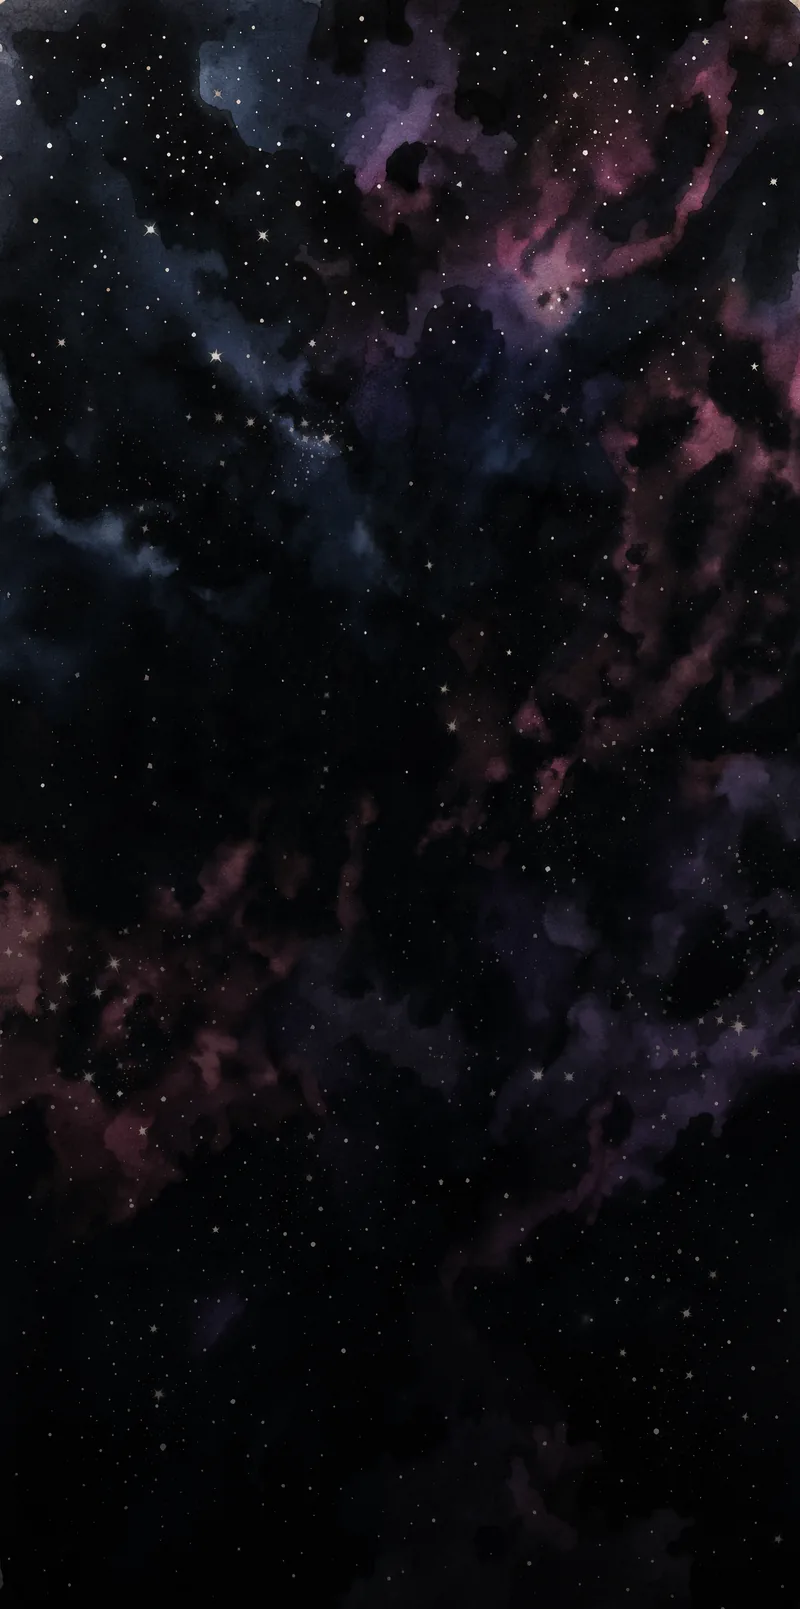
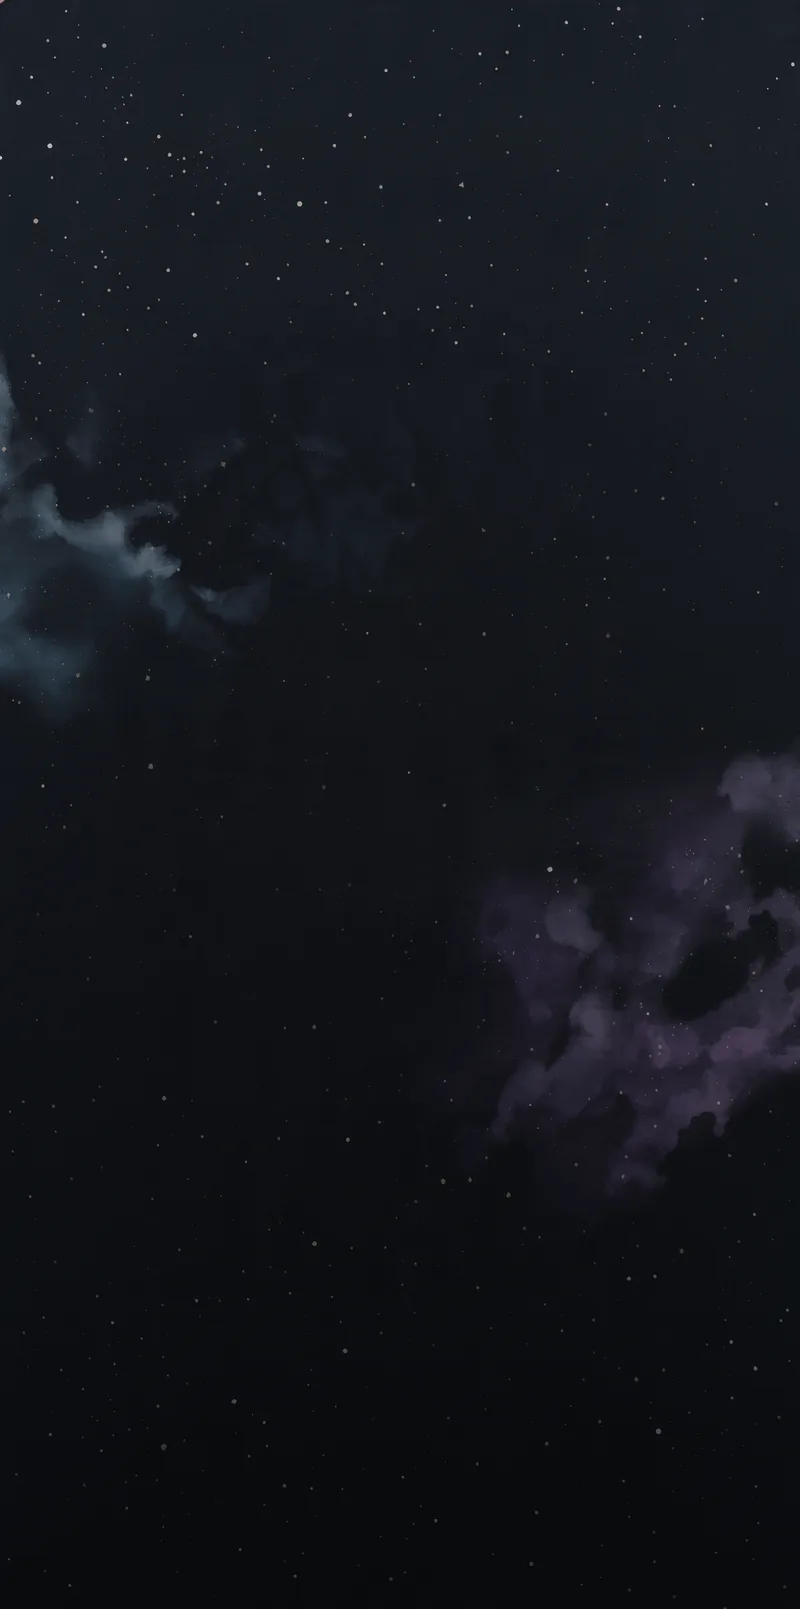
Background: simpler, calmer dark sky (sparse tiny stars, two faint nebula wisps), fading toward the bottom

diff --git a/app/src/components/space-backdrop.tsx b/app/src/components/space-backdrop.tsx
@@ -1,7 +1,7 @@
 import { Galaxy } from './galaxy'
 
 /**
- * The space behind the whole page: one tall dark watercolor-galaxy painting (generated with
+ * The space behind the whole page: one tall, calm dark space painting (generated with
  * Magnific from its watercolor galaxy set, with a gradual fade baked in) that scrolls with the page. It's lightest at the top and
  * gets darker as you go down, so the last section sits on near-black with a few stars.
  * Past the bottom of the painting the page continues in its darkest colour.
@@ -9,7 +9,7 @@ import { Galaxy } from './galaxy'
  * On top, a fixed layer of twinkling stars and the occasional comet keeps it alive
  * wherever you are on the page.
  */
-export const SPACE_BOTTOM = '#040406'
+export const SPACE_BOTTOM = '#090a0d'
 
 export function SpaceBackdrop() {
   return (

diff --git a/app/src/index.css b/app/src/index.css
@@ -38,7 +38,7 @@
 
 html {
   /* Matches the bottom of the space painting (components/space-backdrop.tsx). */
-  background: #040406;
+  background: #090a0d;
   color: var(--fg);
   scrollbar-gutter: stable;
   -webkit-font-smoothing: antialiased;
